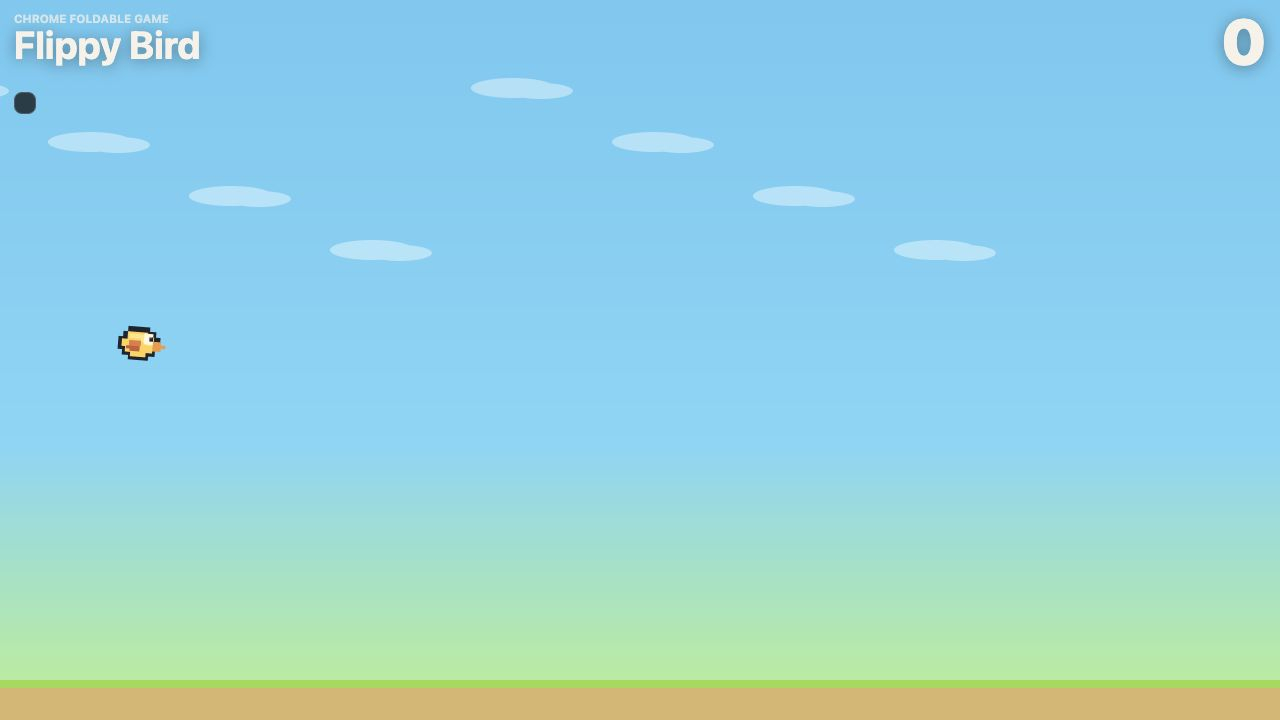
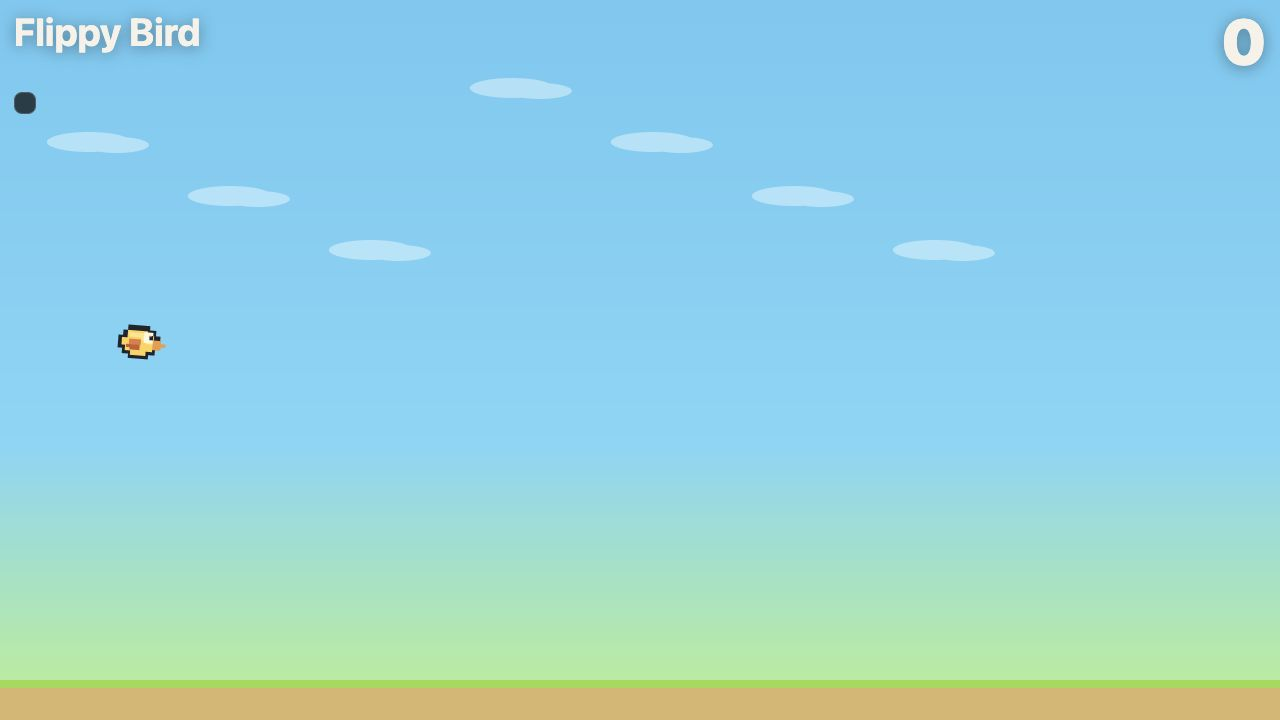
Simplify game UI and bust stale assets

Changed region(s): [[0.0, 0.0, 0.1562, 0.0917], [0.0938, 0.4583, 0.125, 0.5194]]

diff --git a/flippy.js b/flippy.js
@@ -20,9 +20,7 @@ const screenshotMode = params.get("shot") === "1";
 const sprites = {
   birdUp: loadImage("assets/flippy-bird-up.svg"),
   birdMid: loadImage("assets/flippy-bird-mid.svg"),
-  birdDown: loadImage("assets/flippy-bird-down.svg"),
-  pipeTop: loadImage("assets/pipe-top.png"),
-  pipeBottom: loadImage("assets/pipe-bottom.png")
+  birdDown: loadImage("assets/flippy-bird-down.svg")
 };
 
 document.documentElement.dataset.lab = String(labEnabled);
@@ -252,6 +250,7 @@ function drawSky() {
   for (let i = 0; i < 8; i += 1) {
     const x = (i * 141 + state.lastTime * 0.012) % (state.width + 120) - 60;
     const y = 88 + (i % 4) * 54;
+    if (x < 86 && y < 130) continue;
     context.beginPath();
     context.ellipse(x, y, 42, 10, 0, 0, Math.PI * 2);
     context.ellipse(x + 28, y + 3, 32, 8, 0, 0, Math.PI * 2);
@@ -376,8 +375,9 @@ function drawPrompt() {
   context.save();
   context.textAlign = "center";
   context.textBaseline = "middle";
-  context.fillStyle = "rgba(255, 255, 255, 0.58)";
-  context.fillRect(state.width / 2 - 132, y - 30, 264, 60);
+  context.shadowColor = "rgba(29, 44, 50, 0.32)";
+  context.shadowBlur = 8;
+  context.shadowOffsetY = 2;
   context.fillStyle = "#1d2c32";
   context.font = "800 22px system-ui, sans-serif";
   const title = state.deviceAllowed || labEnabled
@@ -386,6 +386,8 @@ function drawPrompt() {
       : "Fold to start"
     : "Flip phone required";
   context.fillText(title, state.width / 2, y - 6);
+  context.shadowBlur = 0;
+  context.shadowOffsetY = 0;
   context.fillStyle = "rgba(29, 44, 50, 0.7)";
   context.font = "600 13px system-ui, sans-serif";
   context.fillText(

diff --git a/index.html b/index.html
@@ -4,7 +4,7 @@
     <meta charset="utf-8">
     <meta name="viewport" content="width=device-width, initial-scale=1, viewport-fit=cover">
     <title>Flippy Bird</title>
-    <link rel="stylesheet" href="styles.css?v=20260525-clean">
+    <link rel="stylesheet" href="flippy.css?v=20260525-ui3">
   </head>
   <body>
     <main class="game-shell">
@@ -18,7 +18,6 @@
 
       <section class="hud" aria-live="polite">
         <div>
-          <p class="kicker">Chrome foldable game</p>
           <h1>Flippy Bird</h1>
         </div>
         <output id="score">0</output>
@@ -47,6 +46,6 @@
       <div class="segment-probe" id="segmentProbe10" aria-hidden="true"></div>
     </main>
 
-    <script src="game.js?v=20260525-clean"></script>
+    <script src="flippy.js?v=20260525-ui3"></script>
   </body>
 </html>
